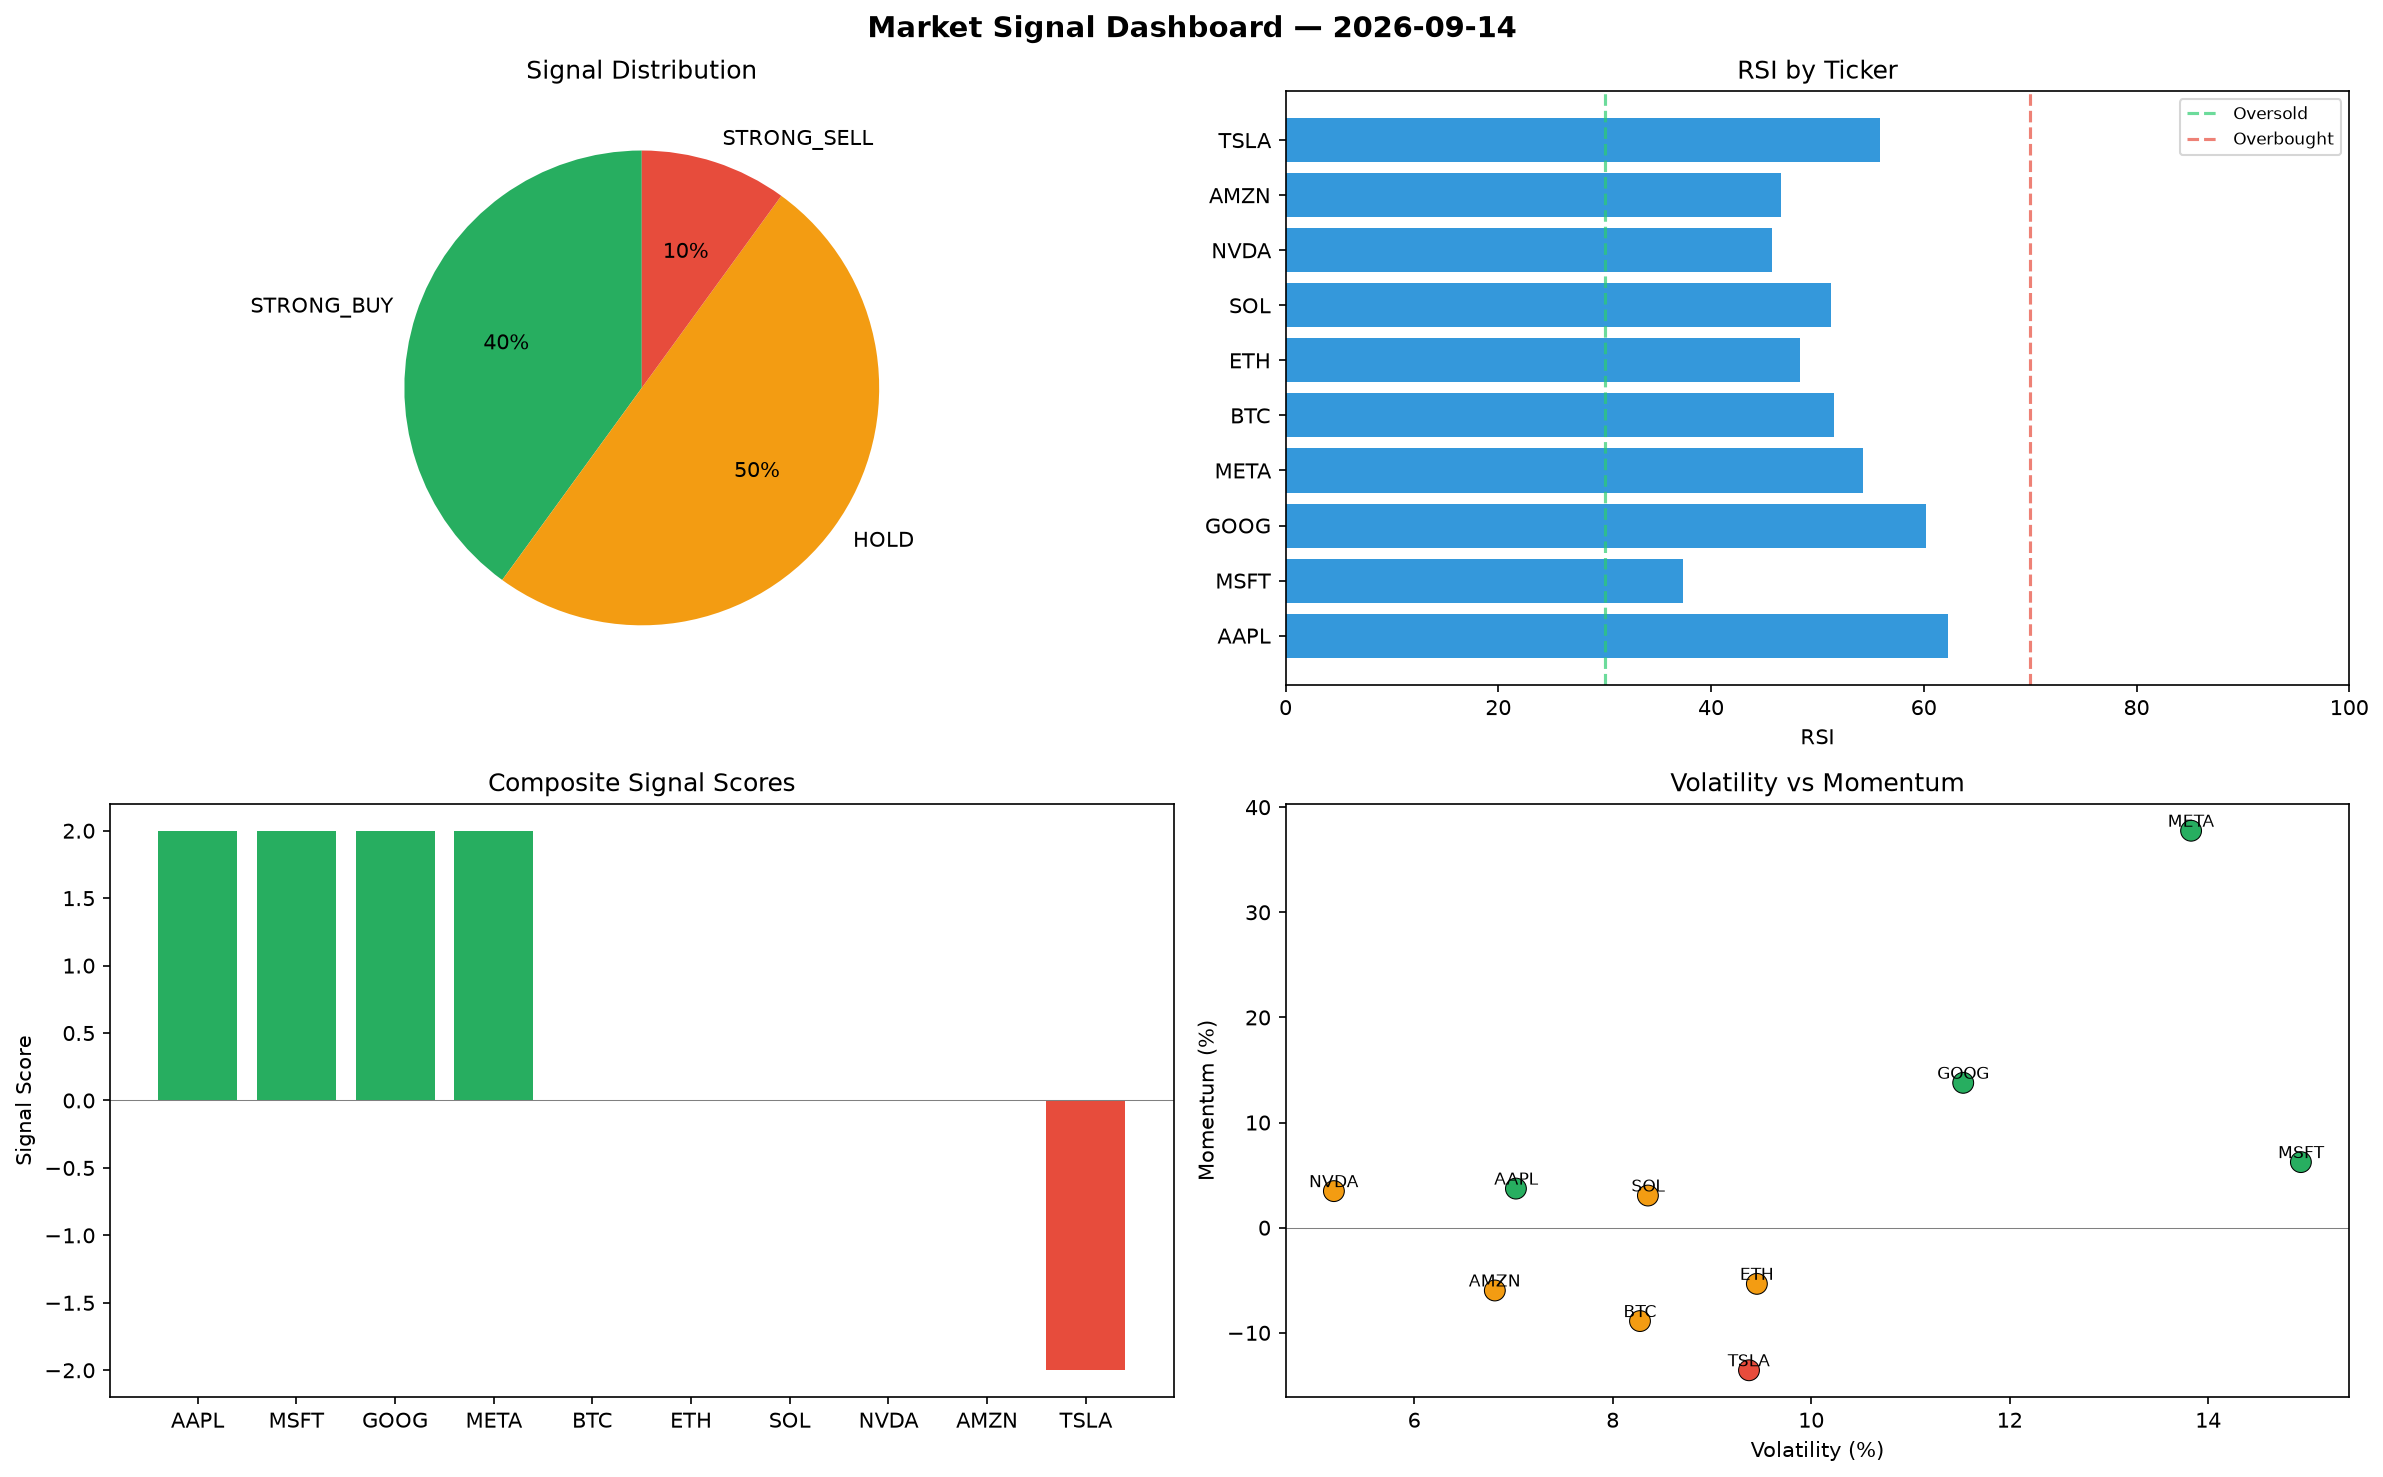
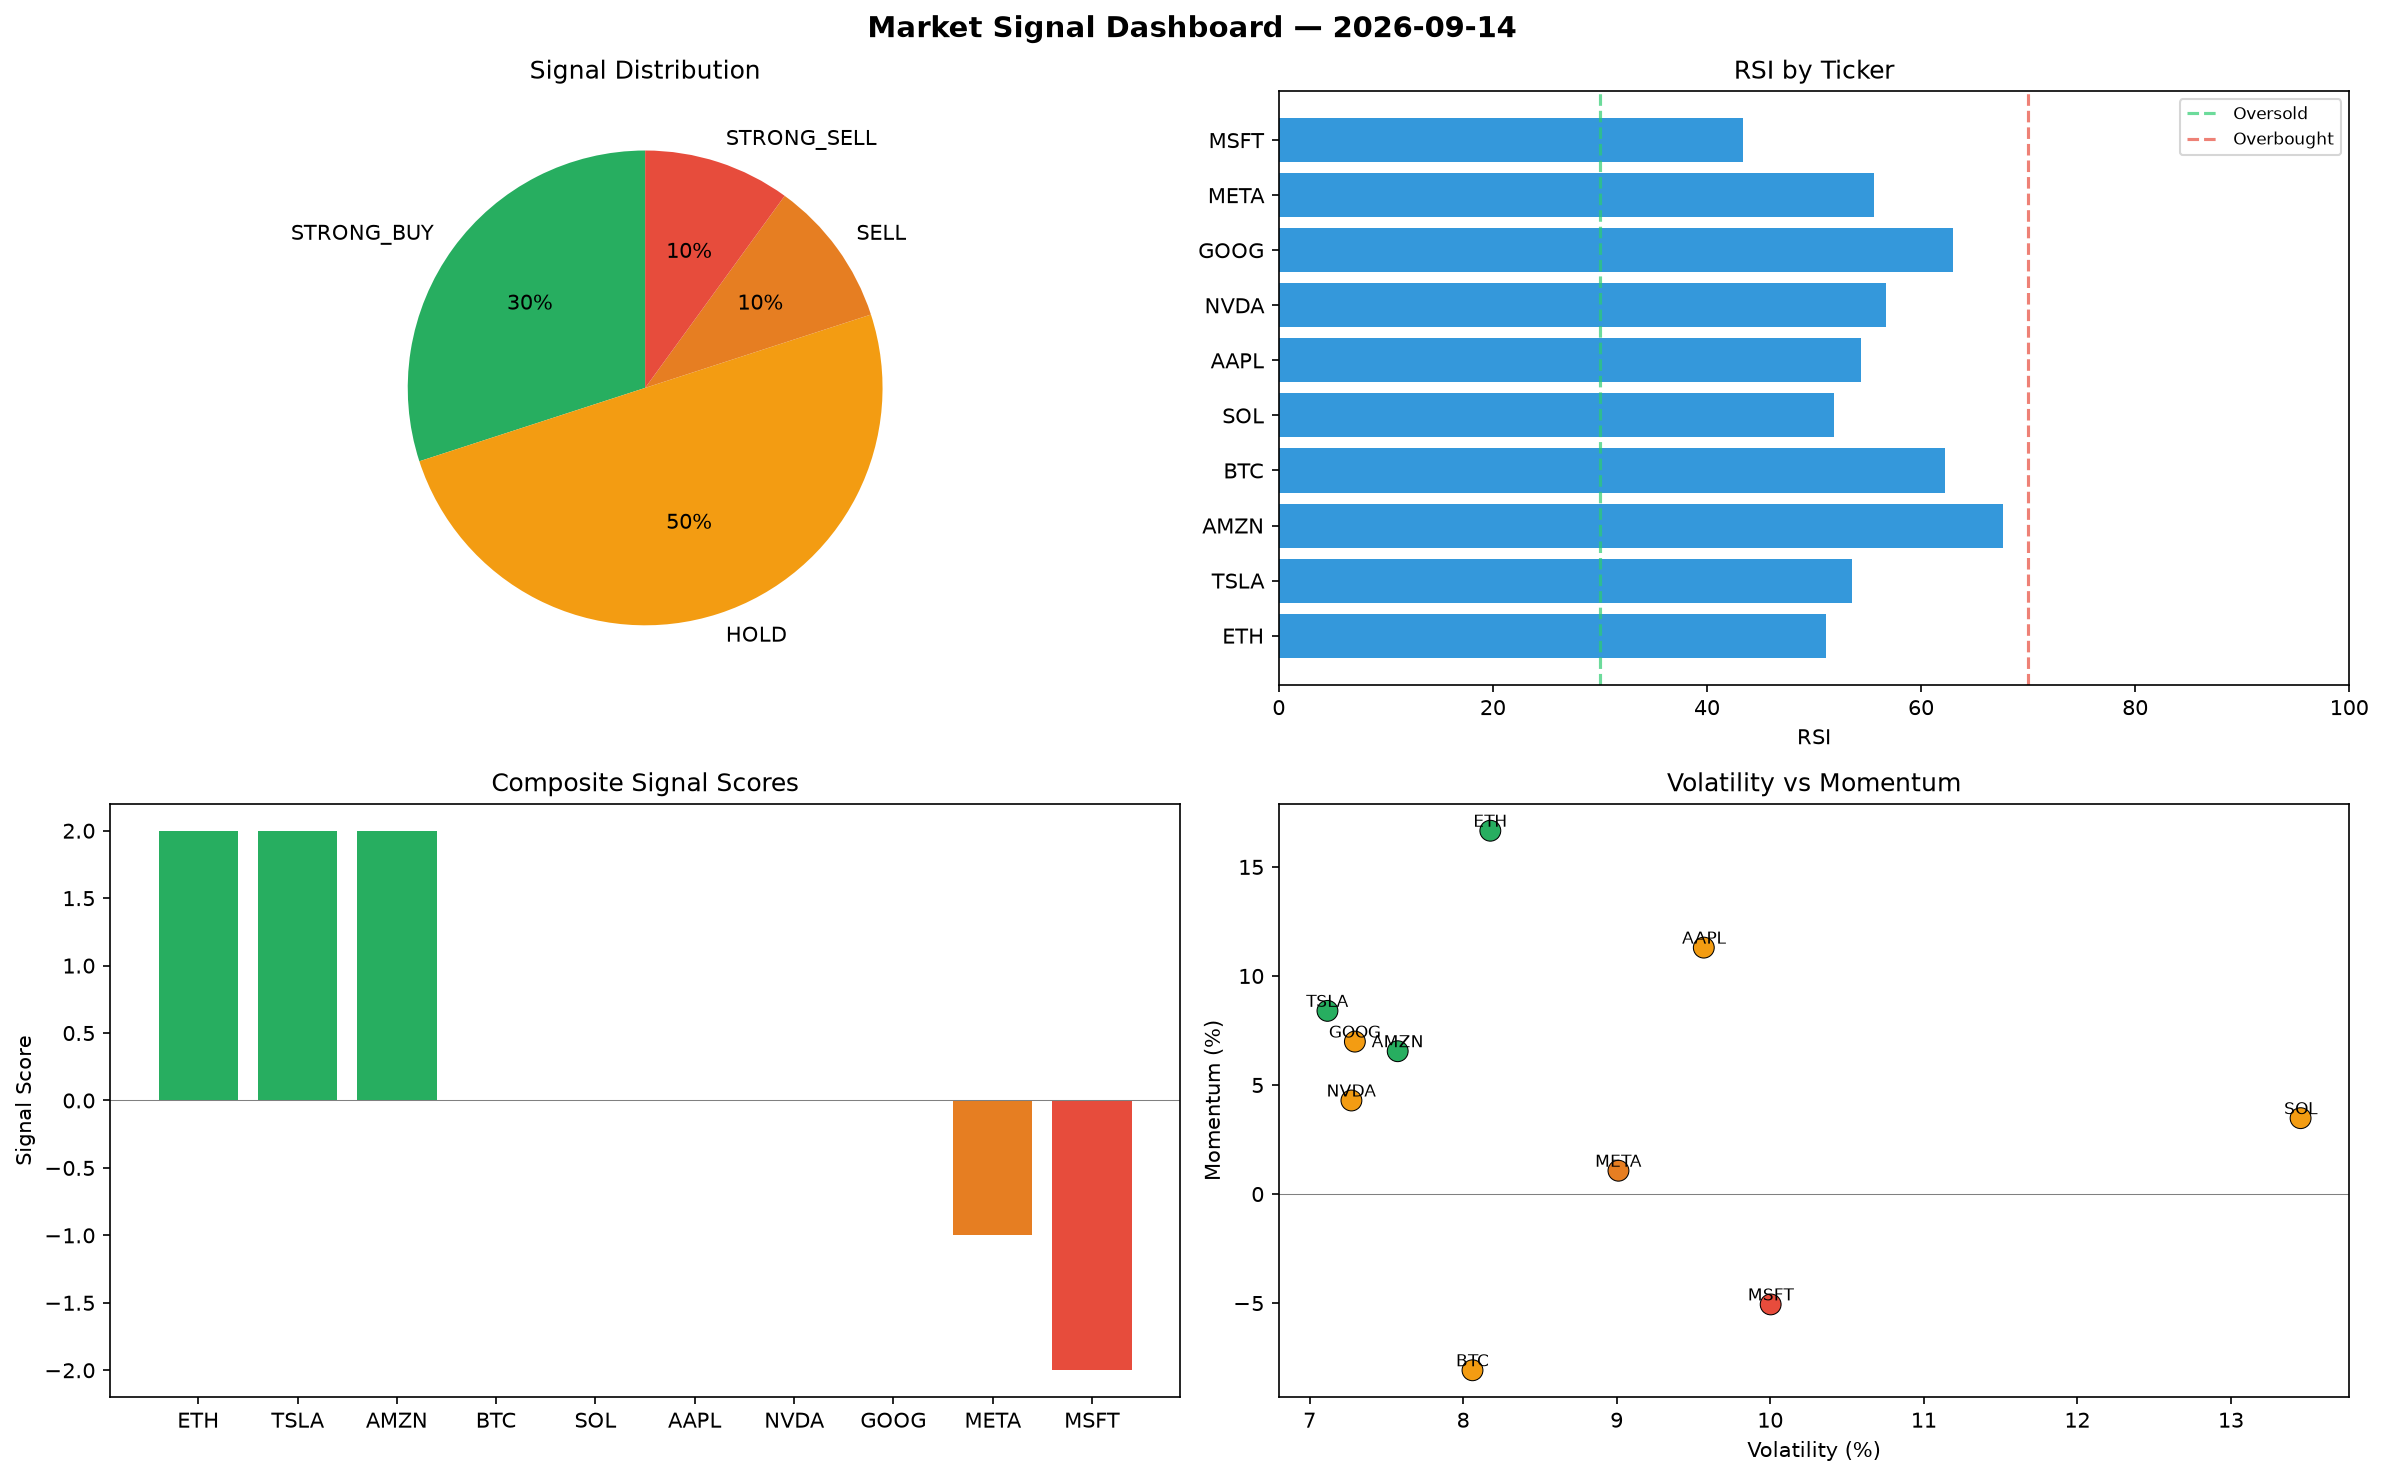
automated-bots: market signals 2026-09-14T23:15

diff --git a/logs/2026-09-14.md b/logs/2026-09-14.md
@@ -1,6 +1,6 @@
 # Market Signal Report — 2026-09-14
 
-**Run ID:** `80ba430e6a` | **Buy:** 4 | **Sell:** 1 | **Hold:** 5
+**Run ID:** `356218142e` | **Buy:** 3 | **Sell:** 2 | **Hold:** 5
 
 ![Dashboard](2026-09-14_dashboard.png)
 
@@ -8,28 +8,28 @@
 
 | Ticker | Price | Signal | Score | RSI | Momentum | Confidence |
 |--------|-------|--------|-------|-----|----------|------------|
-| AAPL | $649.99 | **STRONG_BUY** | 2 | 62.32 | 0.0372 | 0.5 |
-| MSFT | $3614.17 | **STRONG_BUY** | 2 | 37.37 | 0.0624 | 0.5 |
-| GOOG | $4006.13 | **STRONG_BUY** | 2 | 60.18 | 0.1378 | 0.5 |
-| META | $3391.13 | **STRONG_BUY** | 2 | 54.3 | 0.3776 | 0.5 |
-| BTC | $1462.41 | **HOLD** | 0 | 51.58 | -0.0888 | 0.0 |
-| ETH | $3937.5 | **HOLD** | 0 | 48.38 | -0.0534 | 0.0 |
-| SOL | $2087.15 | **HOLD** | 0 | 51.29 | 0.0306 | 0.0 |
-| NVDA | $4560.83 | **HOLD** | 0 | 45.75 | 0.0348 | 0.0 |
-| AMZN | $233.16 | **HOLD** | 0 | 46.62 | -0.0597 | 0.0 |
-| TSLA | $996.43 | **STRONG_SELL** | -2 | 55.88 | -0.1356 | 0.5 |
+| ETH | $4286.65 | **STRONG_BUY** | 2 | 51.13 | 0.1666 | 0.5 |
+| TSLA | $3821.05 | **STRONG_BUY** | 2 | 53.54 | 0.084 | 0.5 |
+| AMZN | $4376.94 | **STRONG_BUY** | 2 | 67.69 | 0.0655 | 0.5 |
+| BTC | $1431.99 | **HOLD** | 0 | 62.26 | -0.0808 | 0.0 |
+| SOL | $3265.17 | **HOLD** | 0 | 51.88 | 0.0348 | 0.0 |
+| AAPL | $5025.06 | **HOLD** | 0 | 54.35 | 0.113 | 0.0 |
+| NVDA | $1582.98 | **HOLD** | 0 | 56.7 | 0.0429 | 0.0 |
+| GOOG | $2924.5 | **HOLD** | 0 | 62.98 | 0.0699 | 0.0 |
+| META | $4660.29 | **SELL** | -1 | 55.59 | 0.0107 | 0.25 |
+| MSFT | $4465.24 | **STRONG_SELL** | -2 | 43.37 | -0.0506 | 0.5 |
 
 ## Delta vs Yesterday
 
 | Ticker | Today | Yesterday | Price Change | Signal Changed |
 |--------|-------|-----------|-------------|----------------|
-| AAPL | STRONG_BUY | BUY | 📉 -84.47% | ⚠ YES |
-| MSFT | STRONG_BUY | STRONG_SELL | 📈 382.89% | ⚠ YES |
-| GOOG | STRONG_BUY | STRONG_BUY | 📈 80.8% | — |
-| META | STRONG_BUY | SELL | 📈 209.73% | ⚠ YES |
-| BTC | HOLD | SELL | 📉 -3.02% | ⚠ YES |
-| ETH | HOLD | STRONG_SELL | 📈 308.55% | ⚠ YES |
-| SOL | HOLD | STRONG_SELL | 📉 -18.87% | ⚠ YES |
-| NVDA | HOLD | STRONG_SELL | 📈 361.4% | ⚠ YES |
-| AMZN | HOLD | STRONG_BUY | 📉 -78.89% | ⚠ YES |
-| TSLA | STRONG_SELL | STRONG_SELL | 📈 124.59% | — |
+| ETH | STRONG_BUY | STRONG_SELL | 📈 344.77% | ⚠ YES |
+| TSLA | STRONG_BUY | STRONG_SELL | 📈 761.24% | ⚠ YES |
+| AMZN | STRONG_BUY | STRONG_BUY | 📈 296.26% | — |
+| BTC | HOLD | SELL | 📉 -5.04% | ⚠ YES |
+| SOL | HOLD | STRONG_SELL | 📈 26.92% | ⚠ YES |
+| AAPL | HOLD | BUY | 📈 20.04% | ⚠ YES |
+| NVDA | HOLD | STRONG_SELL | 📈 60.14% | ⚠ YES |
+| GOOG | HOLD | STRONG_BUY | 📈 31.98% | ⚠ YES |
+| META | SELL | SELL | 📈 325.66% | — |
+| MSFT | STRONG_SELL | STRONG_SELL | 📈 496.61% | — |
